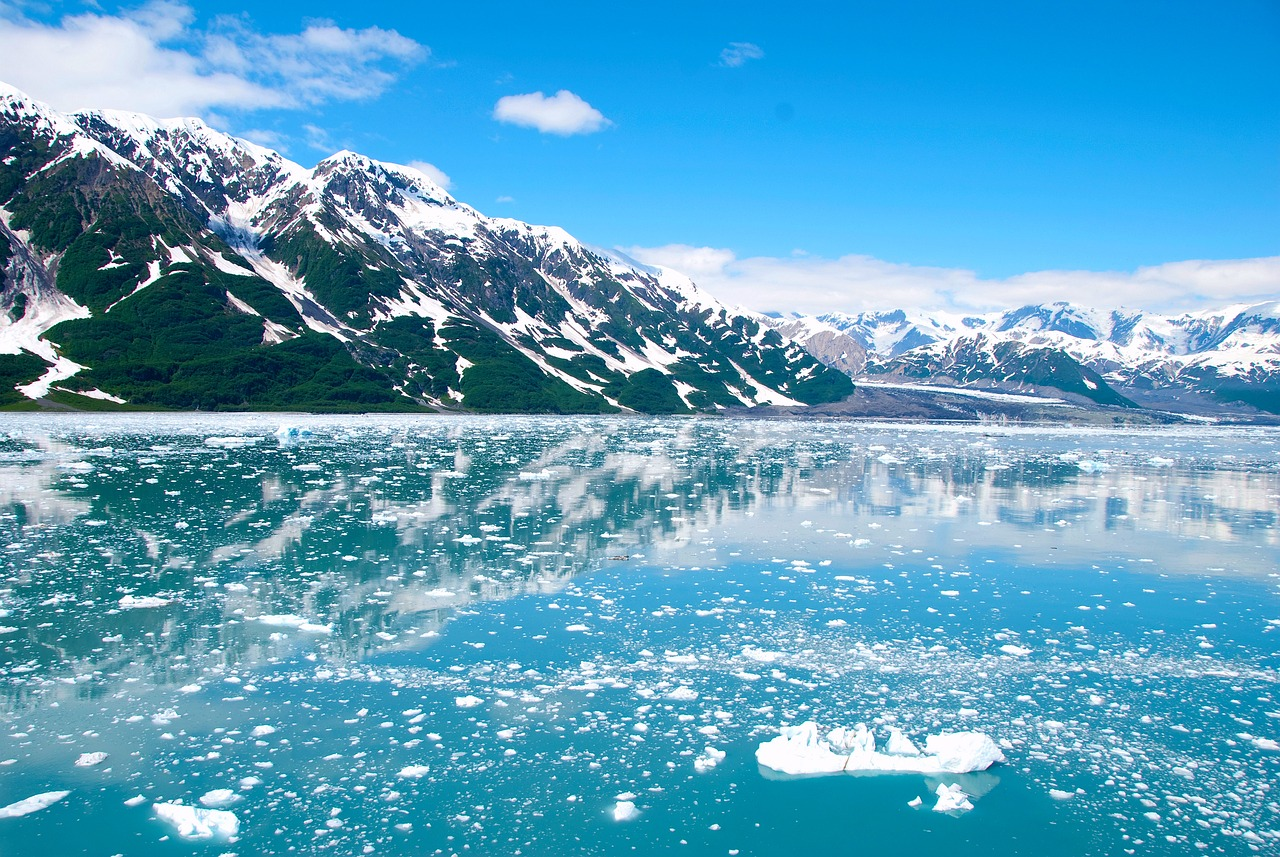
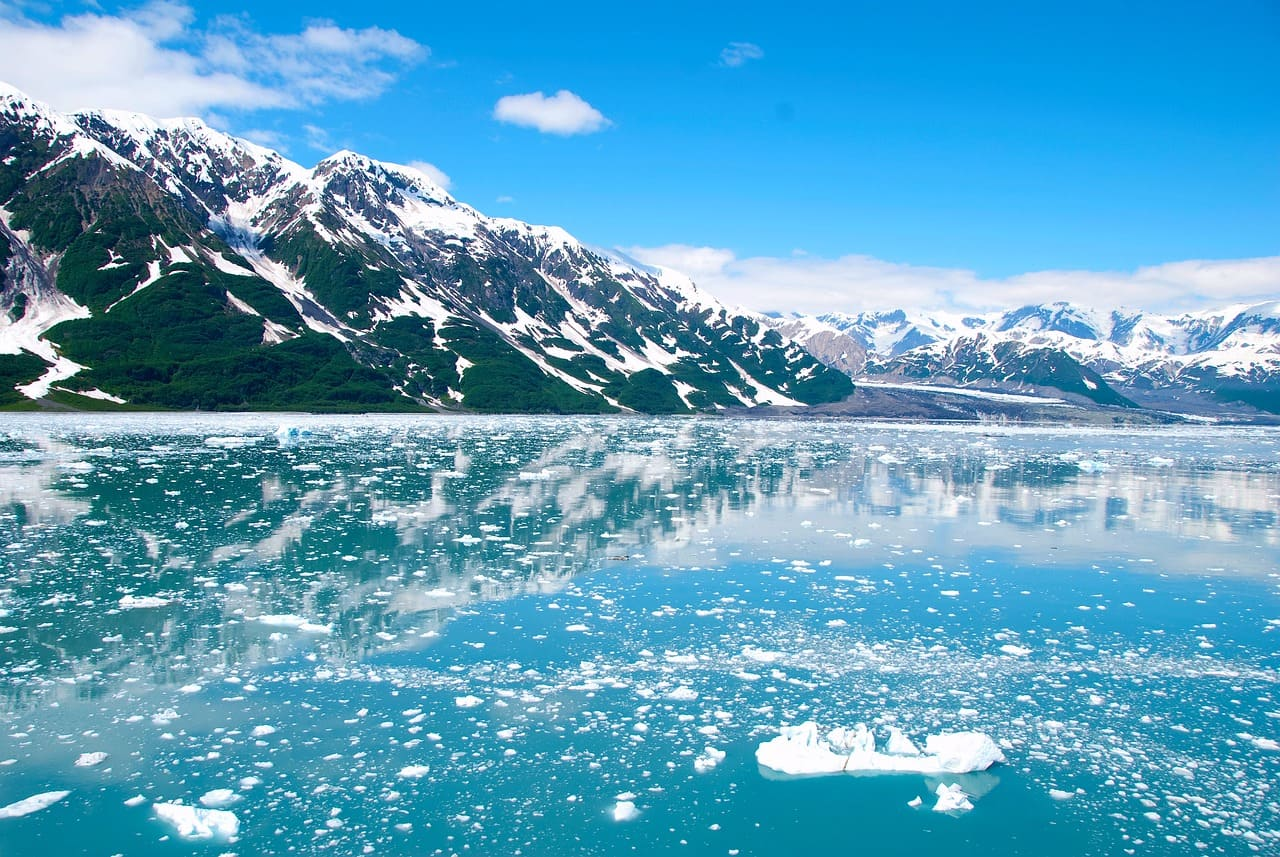
changed img file size + added picture name

diff --git a/index.html b/index.html
@@ -30,60 +30,60 @@
                         <img tabindex="2"
                         data-index="1"
                             onclick="openDialog(1)"
-                            src="./img/cyberpunk.png"
+                            src="./img/cyberpunk.jpg"
                             alt="Bild von einer düsteren Stadt"
                         />
                         <img tabindex="3" data-index="2"
                             onclick="openDialog(2)"
-                            src="./img/ente.png"
+                            src="./img/ente.jpg"
                             alt="Bild von einer Ente im Wasser"
                         />
                         <img tabindex="4"
                         data-index="3"
                             onclick="openDialog(3)"
-                            src="./img/fischer.png"
+                            src="./img/fischer.jpg"
                             alt="Bild von einem Fischer auf dem Meer"
                         />
                         <img tabindex="5"
                         data-index="4"
                             onclick="openDialog(4)"
-                            src="./img/himmel.png"
+                            src="./img/himmel.jpg"
                             alt="Bild vom Himmel in den Bergen"
                         />
                         <img tabindex="6"
                         data-index="5"
                             onclick="openDialog(5)"
-                            src="./img/kitten.png"
+                            src="./img/kitten.jpg"
                             alt="Bild von einem Raubkatzenbaby"
                         />
                         <img tabindex="7"
                         data-index="6"
                             onclick="openDialog(6)"
-                            src="./img/schnee.png"
+                            src="./img/schnee.jpg"
                             alt="Bild von einem verschneiten Baum"
                         />
                         <img tabindex="8"
                         data-index="7"
                             onclick="openDialog(7)"
-                            src="./img/see.png"
+                            src="./img/see.jpg"
                             alt="Bild von einem See aus dem Tal heraus mit bergiger Landschaft"
                         />
                         <img tabindex="9"
                         data-index="8"
                             onclick="openDialog(8)"
-                            src="./img/vogel-auf-ast.png"
+                            src="./img/vogel-auf-ast.jpg"
                             alt="Bild von einem kleinen Vogel auf einem Ast"
                         />
                         <img tabindex="10"
                         data-index="9"
                             onclick="openDialog(9)"
-                            src="./img/vogel-auf-stein.png"
+                            src="./img/vogel-auf-stein.jpg"
                             alt="Bild von einem Vogel auf Felsen"
                         />
                         <img tabindex="11"
                         data-index="10"
                             onclick="openDialog(10)"
-                            src="./img/weltraum.png"
+                            src="./img/weltraum.jpg"
                             alt="Bild von der Erdkugel aus dem Weltraum"
                         />
                         <img tabindex="12" data-index="11"

diff --git a/style.css b/style.css
@@ -29,6 +29,7 @@ body {
     flex-direction: column;
     min-height: 100dvh;
     font-family: "Figtree";
+
     header {
         background: #09212a;
         width: 100%;
@@ -36,6 +37,7 @@ body {
         display: flex;
         justify-content: center;
         align-items: center;
+        padding: 0 5%;
         .position-of-logo {
             width: 100%;
             display: flex;
@@ -48,7 +50,7 @@ body {
         width: 100%;
         justify-content: center;
         align-items: center;
-        padding: 0 32px;
+        padding: 4% 1%;
         .position-of-header-and-pictures {
             display: flex;
             flex-direction: column;
@@ -269,9 +271,11 @@ dialog::backdrop {
             main {
                 justify-content: center;
                 flex: 1;
+                width: 100%;
                 height: 100%;
                 img {
-                    object-fit: cover;
+                    width: 100%;
+                    object-fit: contain;
                     height: 80dvh;
                 }
             }

diff --git a/script.js b/script.js
@@ -1,15 +1,15 @@
 const popupImages = [
     "./img/Berge.jpg",
-    "./img/cyberpunk.png",
-    "./img/ente.png",
-    "./img/fischer.png",
-    "./img/himmel.png",
-    "./img/kitten.png",
-    "./img/schnee.png",
-    "./img/see.png",
-    "./img/vogel-auf-ast.png",
-    "./img/vogel-auf-stein.png",
-    "./img/weltraum.png",
+    "./img/cyberpunk.jpg",
+    "./img/ente.jpg",
+    "./img/fischer.jpg",
+    "./img/himmel.jpg",
+    "./img/kitten.jpg",
+    "./img/schnee.jpg",
+    "./img/see.jpg",
+    "./img/vogel-auf-ast.jpg",
+    "./img/vogel-auf-stein.jpg",
+    "./img/weltraum.jpg",
     "./img/wolken.png",
 ];
 
@@ -45,7 +45,7 @@ function setImageName() {
 
 function setPictureName() {
     let nameRef = document.getElementById("fileName");
-    let imageName = popupImages[currentIndex].replace("./img/", "");
+    let imageName = "Picturename:" + " " + popupImages[currentIndex].replace("./img/", "").replace(".jpg", "").replace(".png", "");
     nameRef.innerText = imageName;
 }
 
